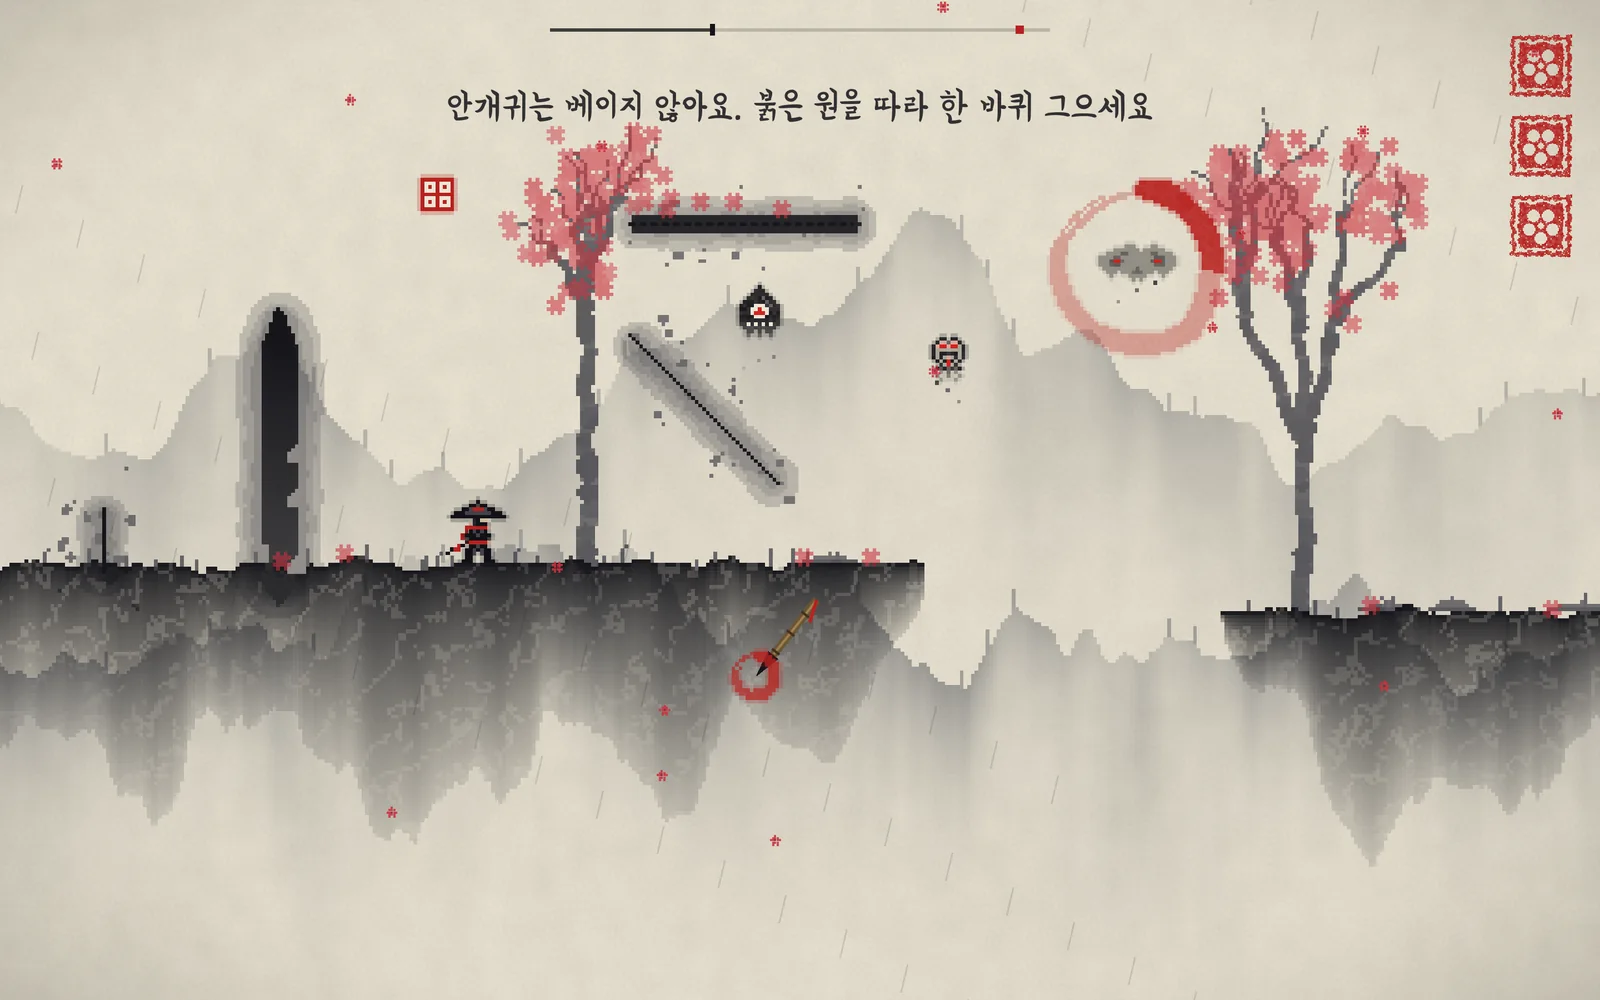
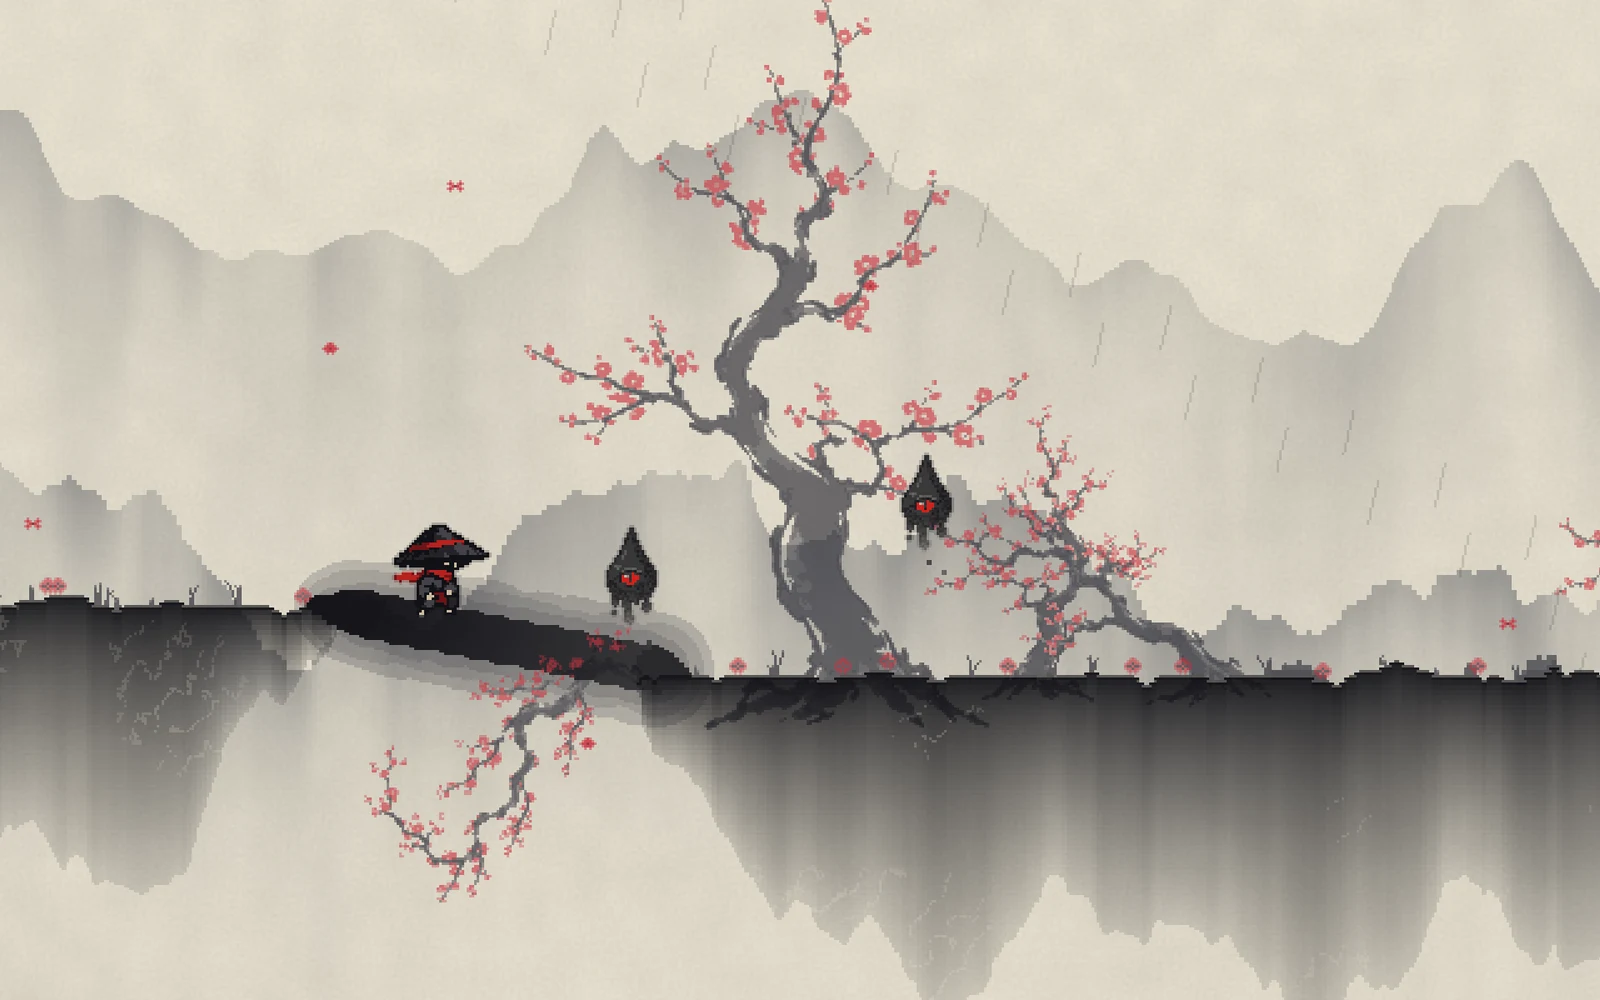
일필휘지 기획서: 첫 화면 그림과 다리·베기 사진을 새 나그네로 다시 찍음(봄 매화, tests/plan_shots.gd)

diff --git a/lossy-brush/index.html b/lossy-brush/index.html
@@ -106,7 +106,7 @@ footer { margin-top: 100px; font-size: 14.5px; color: var(--ink-2) }
   <a class="play" href="play/">맛보기 하기<small>1장 사계 · PC 브라우저</small></a>
   <a class="play rev" href="review/">평가 기록<small>날짜별 점수</small></a>
   <a class="play rev" href="talks/">대화 정리<small>함께 정한 것</small></a>
-  <img src="img/hero.webp" alt="봄 두루마리에서 삿갓 쓴 무사가 먹 귀신들과 마주한 화면" width="1600" height="1000">
+  <img src="img/hero.webp" alt="봄 매화 아래, 틈 위에 그은 먹 다리에 큰 삿갓을 쓴 작은 나그네가 서고 먹귀 둘이 다가오는 화면" width="1600" height="1000">
 </header>
 <main>
   <p class="thesis">내가 그은 획은<br><em>끝까지</em> 돌아온다</p>
